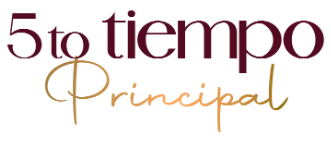
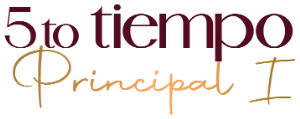
Replace course title graphics with cropped assets from the new title sheet

Changed region(s): [[0.0, 0.0252, 0.99, 0.958], [0.51, 0.5798, 0.54, 0.6303]]

diff --git a/index.html b/index.html
@@ -133,10 +133,7 @@
       <li class="course" data-course="1" data-reveal>
         <button class="course-head" aria-expanded="false">
           <span class="course-heading">
-            <span class="course-title-text">
-              <span class="course-title-line"><span class="ordinal">1er</span> tiempo</span>
-              <span class="course-title-sub">El Recibimiento</span>
-            </span>
+            <img class="course-title-img" src="assets/course-title-1.png" alt="1er tiempo — El Recibimiento" width="388" height="116">
             <span class="course-name">Nimbu Pani &amp; Pan de la Casa</span>
           </span>
           <span class="course-chevron" aria-hidden="true"></span>
@@ -152,10 +149,7 @@
       <li class="course" data-course="2" data-reveal>
         <button class="course-head" aria-expanded="false">
           <span class="course-heading">
-            <span class="course-title-text">
-              <span class="course-title-line"><span class="ordinal">2do</span> tiempo</span>
-              <span class="course-title-sub">El Esplendor del Callejeo Indio</span>
-            </span>
+            <img class="course-title-img" src="assets/course-title-2.png" alt="2do tiempo — El Esplendor del Callejeo Indio" width="725" height="126">
             <span class="course-name">Trilogía de Snacks Callejeros</span>
           </span>
           <span class="course-chevron" aria-hidden="true"></span>
@@ -173,10 +167,7 @@
       <li class="course" data-course="3" data-reveal>
         <button class="course-head" aria-expanded="false">
           <span class="course-heading">
-            <span class="course-title-text">
-              <span class="course-title-line"><span class="ordinal">3er</span> tiempo</span>
-              <span class="course-title-sub">Entrante I</span>
-            </span>
+            <img class="course-title-img" src="assets/course-title-3.png" alt="3er tiempo — Entrante I" width="303" height="117">
             <span class="course-name">Samosa Ragda de Garbanzos y Granada</span>
           </span>
           <span class="course-chevron" aria-hidden="true"></span>
@@ -191,10 +182,7 @@
       <li class="course" data-course="4" data-reveal>
         <button class="course-head" aria-expanded="false">
           <span class="course-heading">
-            <span class="course-title-text">
-              <span class="course-title-line"><span class="ordinal">4to</span> tiempo</span>
-              <span class="course-title-sub">Entrante II</span>
-            </span>
+            <img class="course-title-img" src="assets/course-title-4.png" alt="4to tiempo — Entrante II" width="301" height="117">
             <span class="course-name">Pargo a la Brasa en Salsa Malabar</span>
           </span>
           <span class="course-chevron" aria-hidden="true"></span>
@@ -209,10 +197,7 @@
       <li class="course" data-course="5" data-reveal>
         <button class="course-head" aria-expanded="false">
           <span class="course-heading">
-            <span class="course-title-text">
-              <span class="course-title-line"><span class="ordinal">5to</span> tiempo</span>
-              <span class="course-title-sub">Principal I</span>
-            </span>
+            <img class="course-title-img" src="assets/course-title-5.png" alt="5to tiempo — Principal I" width="300" height="119">
             <span class="course-name">2 Costillas de Cordero al Carbón con Lima Tatemada</span>
           </span>
           <span class="course-chevron" aria-hidden="true"></span>
@@ -227,10 +212,7 @@
       <li class="course" data-course="6" data-reveal>
         <button class="course-head" aria-expanded="false">
           <span class="course-heading">
-            <span class="course-title-text">
-              <span class="course-title-line"><span class="ordinal">6to</span> tiempo</span>
-              <span class="course-title-sub">Principal II</span>
-            </span>
+            <img class="course-title-img" src="assets/course-title-6.png" alt="6to tiempo — Principal II" width="324" height="120">
             <span class="course-name">Medallón de Lomito de Ternera en Salsa Nihari</span>
           </span>
           <span class="course-chevron" aria-hidden="true"></span>
@@ -246,10 +228,7 @@
       <li class="course" data-course="7" data-reveal>
         <button class="course-head" aria-expanded="false">
           <span class="course-heading">
-            <span class="course-title-text">
-              <span class="course-title-line"><span class="ordinal">7mo</span> tiempo</span>
-              <span class="course-title-sub">El Cortante</span>
-            </span>
+            <img class="course-title-img" src="assets/course-title-7.png" alt="7mo tiempo — El Cortante" width="321" height="117">
             <span class="course-name">Granizado Artesanal de Té Negro y Lima</span>
           </span>
           <span class="course-chevron" aria-hidden="true"></span>
@@ -264,10 +243,7 @@
       <li class="course" data-course="8" data-reveal>
         <button class="course-head" aria-expanded="false">
           <span class="course-heading">
-            <span class="course-title-text">
-              <span class="course-title-line"><span class="ordinal">8vo</span> tiempo</span>
-              <span class="course-title-sub">El Postre</span>
-            </span>
+            <img class="course-title-img" src="assets/course-title-8.png" alt="8vo tiempo — El Postre" width="307" height="116">
             <span class="course-name">Semi frío de mango</span>
           </span>
           <span class="course-chevron" aria-hidden="true"></span>
@@ -282,10 +258,7 @@
       <li class="course" data-course="9" data-reveal>
         <button class="course-head" aria-expanded="false">
           <span class="course-heading">
-            <span class="course-title-text">
-              <span class="course-title-line"><span class="ordinal">9no</span> tiempo</span>
-              <span class="course-title-sub">El Cierre</span>
-            </span>
+            <img class="course-title-img" src="assets/course-title-9.png" alt="9no tiempo — El Cierre" width="307" height="106">
             <span class="course-name">Cremoso de Café Especiado con Licor &amp; Petits Fours</span>
           </span>
           <span class="course-chevron" aria-hidden="true"></span>

diff --git a/css/style.css b/css/style.css
@@ -367,17 +367,6 @@ a{color:inherit;text-decoration:none;}
 }
 .course-heading{flex:1 1 auto;display:flex;flex-direction:column;align-items:center;gap:8px;}
 .course-title-img{height:68px;width:auto;display:block;margin:0 auto;}
-.course-title-text{display:flex;flex-direction:column;align-items:center;}
-.course-title-line{
-  display:flex;align-items:baseline;justify-content:center;gap:.22em;
-  font-family:var(--font-display);font-weight:800;font-size:1.7rem;line-height:1;
-  color:var(--wine-700);
-}
-.course-title-line .ordinal{font-weight:500;font-size:.58em;}
-.course-title-sub{
-  font-family:var(--font-script);font-weight:400;font-size:1.5rem;line-height:1.3;
-  color:var(--gold-dim);margin-top:2px;
-}
 .course-name{
   display:inline-block;
   font-family:'Manrope',sans-serif;font-weight:700;font-size:.78rem;
